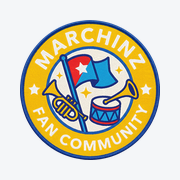
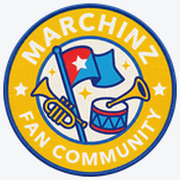
実機4件: PWAアイコンをギリギリ枠へ拡大(77%→97%)・おまかせ説明から上限なし文言を撤去・こだわりはパソコンだけ(管理者もスマホ不可)・1/2画面のフルショウ案内を初回から表示+スマホ5分を明記／v1.108.5
- pwa/: apple-touch-icon/icon-192/icon-512の紋章を98%へ(maskableは仕様どおり据え置き)、参照?v=一括バンプ
- limits.js: proAllowed=(unlimited||member)&&bigDevice(管理者のiPhoneに一般と別画面が出ていた)
- ui.js: flowEasyDescは上限なしのとき長さを言わない/app.js初期化でshowModeStep(kind)
- mzModeTip: スマホ5分の実数を追加(取り込み: スマホ5分/登録×PC15分/管理者のみ上限なし)
- QA: 新規2本(初回案内の配線+実数/上限なし文言禁止)+管理者×スマホ=不可へ契約更新。関連45件PASS

diff --git a/tools/qa/runner.html b/tools/qa/runner.html
@@ -3889,6 +3889,57 @@ async function countSamples(ns, file, fromSec) {
     return "常設表示あり / 写真アプリの道順つき / 次の取り込みで仕切り直す";
   });
 
+  await test("★1/2画面のフルショウ案内: 初回から出る配線+スマホゲストで5分/15分/10分を言う", async () => {
+    /* 2026-08-06 優さん指示+高校生レビューP0-3: #mzModeTip は showModeStep が
+       種類選択後にしか走らず、初回に一度も出ていなかった。
+       (1)app.js が初期化で showModeStep("kind") を呼ぶ配線があること(除去=退行)
+       (2)スマホ×ゲストの L で呼べば tip が出て、5分/15分/10分の実数を言うこと */
+    const appSrc = await (await fetch("../switcher/js/app.js")).text();
+    if (!/showModeStep\("kind"\)/.test(appSrc)) {
+      throw new Error("app.js の初期化に showModeStep('kind') が無い(初回に案内が出ない)");
+    }
+    const w = await compEnv();
+    compReset(w);
+    const keepL = w.MZ_LIMITS;
+    try {
+      w.MZ_LIMITS = await loadLimits({ mobile: true });   // ゲスト×スマホ
+      w.MC.ui.showModeStep("kind");
+      const tip = w.document.getElementById("mzModeTip");
+      if (!tip || tip.hidden) throw new Error("スマホゲストなのに案内が出ない");
+      const t = tip.textContent;
+      for (const need of ["無料登録", "パソコン", "5分", "15分", "10分"]) {
+        if (t.indexOf(need) < 0) throw new Error(`案内に「${need}」が無い: ` + t);
+      }
+      /* 上限なし(管理者)には出さない(2026-08-05 優さん指示のまま) */
+      w.MZ_LIMITS = await loadLimits({ admin: true, mobile: true });
+      w.MC.ui.showModeStep("kind");
+      if (!w.document.getElementById("mzModeTip").hidden) {
+        throw new Error("上限なしにも案内が出ている(当てはまらない話)");
+      }
+      return "配線あり / 5分・15分・10分を明言 / 上限なしには出さない";
+    } finally { w.MZ_LIMITS = keepL; w.MC.ui.showModeStep("kind"); }
+  });
+
+  await test("★おまかせの説明: 上限なしでは長さを言わない(「上限なしまでの」を出さない)", async () => {
+    /* 2026-08-06 優さん実機: 管理者のiPhoneで「上限なしまでの見どころ」と
+       日本語が壊れて出ていた。誤解のもとなので長さの節ごと省く */
+    const w = await compEnv();
+    compReset(w);
+    const keepL = w.MZ_LIMITS;
+    try {
+      w.MZ_LIMITS = await loadLimits({ admin: true });
+      w.MC.ui.showModeStep("kind");
+      const d = w.document.getElementById("flowEasyDesc").textContent;
+      if (/上限なし/.test(d)) throw new Error("上限なしの言葉が残っている: " + d);
+      if (!/2本以上/.test(d)) throw new Error("2本以上の前提が消えた: " + d);
+      w.MZ_LIMITS = await loadLimits({ mobile: true });
+      w.MC.ui.showModeStep("kind");
+      const g = w.document.getElementById("flowEasyDesc").textContent;
+      if (!/30秒まで/.test(g)) throw new Error("ゲストに実数(30秒)を言わない: " + g);
+      return "上限なし=長さを言わない / ゲスト=30秒までと言う";
+    } finally { w.MZ_LIMITS = keepL; w.MC.ui.showModeStep("kind"); }
+  });
+
   await test("★鍵つきの札が約束する道は、本当にその鍵を開ける(約束の検算)", async () => {
     /* ★ 2026-08-05 レビューで見つかった P0 の再発防止。
        limits.js の modeCapped が `<`(厳密)だったため、
@@ -7180,13 +7231,17 @@ async function countSamples(ns, file, fromSec) {
 
   await test("★「こだわり」を選べるかの正本は limits.js の1箇所(proAllowed)", async () => {
     /* ★ 2026-08-02 優さん指示⑩「こだわりは、pcだけにしよう」:
-       登録 かつ PC のみ。登録×スマホも不可になった。admin/手元環境は端末を問わず可 */
+       登録 かつ PC のみ。登録×スマホも不可。
+       ★ 2026-08-06 優さん「こだわりは、パソコンだけだよね!」で管理者も
+         端末の縛りに従うことになった ─ 管理者のiPhoneにだけこだわりが
+         開いて見え、一般ユーザーの画面と別物になっていた */
     const cases = [
       { name: "ゲスト×スマホ", o: { mobile: true },                pro: false },
       { name: "ゲスト×PC",     o: { mobile: false },               pro: false },
       { name: "登録×スマホ",   o: { mobile: true, member: true },  pro: false },
       { name: "登録×PC",       o: { mobile: false, member: true }, pro: true  },
-      { name: "管理者",        o: { admin: true, mobile: true },   pro: true  },
+      { name: "管理者×スマホ", o: { admin: true, mobile: true },   pro: false },
+      { name: "管理者×PC",     o: { admin: true, mobile: false },  pro: true  },
       { name: "手元環境",      o: { host: "localhost" },           pro: true  },
     ];
     const got = [];

diff --git a/tools/switcher/index.html b/tools/switcher/index.html
@@ -1,5 +1,5 @@
 <!DOCTYPE html>
-<html lang="ja" data-mz-app-v="1.108.4">
+<html lang="ja" data-mz-app-v="1.108.5">
 <head>
 <meta charset="UTF-8">
 <meta name="viewport" content="width=device-width, initial-scale=1, viewport-fit=cover">
@@ -8,7 +8,7 @@
 <meta name="theme-color" content="#fefcef">
 <link rel="icon" type="image/x-icon" href="/favicon.ico?v=1.99.3">
 <link rel="icon" type="image/png" href="/favicon.png?v=1.99.3">
-<link rel="apple-touch-icon" href="/pwa/apple-touch-icon.png?v=1.99.3">
+<link rel="apple-touch-icon" href="/pwa/apple-touch-icon.png?v=1.108.5">
 <meta property="og:title" content="MarchinZ Switcher — ランスルー同期・自動スイッチング">
 <meta property="og:description" content="みんなで撮ったランスルー動画を音で自動同期。自動スイッチング・ワイプでMP4に。MarchinZの無料クリエイターツール。">
 <meta property="og:type" content="website">
@@ -67,7 +67,7 @@
     <p id="mzModeTip" class="mode-tip" hidden>
       <i class="fa-regular fa-lightbulb" aria-hidden="true"></i>
       <b>フルショウのランスルーは、無料登録＋パソコンから作れます。</b>
-      パソコンなら1本15分まで取り込めて、10分までの動画を作成できます。
+      スマホで取り込めるのは1本5分まで。パソコンなら1本15分まで取り込めて、10分までの動画を作成できます。
     </p>
     <div class="mode-cards">
       <button type="button" class="mode-card" data-mode="vertical">
@@ -786,7 +786,7 @@
 <script src="js/timeline.js?v=1.99.3"></script>
 <script src="js/cutmode.js?v=1.99.3"></script>
 <script src="js/exporter.js?v=1.99.4"></script>
-<script src="js/ui.js?v=1.108.4"></script>
-<script src="js/app.js?v=1.108.2"></script>
+<script src="js/ui.js?v=1.108.5"></script>
+<script src="js/app.js?v=1.108.5"></script>
 </body>
 </html>

diff --git a/tools/shared/limits.js b/tools/shared/limits.js
@@ -107,8 +107,12 @@ window.MZ_LIMITS = (() => {
          登録ユーザー **かつ パソコン**(bigDevice)。細かい調整のUIはPC向けで、
          スマホは「おまかせ」が本線。admin/手元環境(unlimited)は開発・検証のため
          端末を問わず通す(上限系と同じ扱い)。
-       ★ おまかせは誰でも使える ─ ここで縛るのは「こだわり」だけ */
-    proAllowed: unlimited || (member && bigDevice),
+       ★ おまかせは誰でも使える ─ ここで縛るのは「こだわり」だけ。
+       ★ こだわりは**パソコンだけ**(2026-08-06 優さん「こだわりは、パソコンだけ
+         だよね!」)。以前は unlimited が端末を問わず通り、管理者のiPhoneに
+         こだわりが開いて見えていた ─ 一般ユーザーと違う画面で実機確認しても
+         製品の姿が分からない */
+    proAllowed: (unlimited || member) && bigDevice,
     /* 取り込める1本の長さ(ReAngle用)。登録 × パソコン だけ15分、それ以外は5分。
        15分あるのは、複数カメラの回し始めのズレ(実測で最大5分超)を
        吸収したうえでショウ全体が入るようにするため(2026-08-05: 12分→15分) */

diff --git a/tools/switcher/js/ui.js b/tools/switcher/js/ui.js
@@ -5821,8 +5821,12 @@ MC.ui.showModeStep = step => {
     if (d && L && L.exportLimitLabelFor) {
       const lab = L.exportLimitLabelFor(MC.ui._pendingMode || MC.S.mode);
       /* ★「2本以上」を選ぶ前に言う(2026-08-06 保護者レビュー: 「任意」表記と
-         needSecondVideoの門が矛盾し、スマホ1台の人が選んだ後で詰まっていた) */
-      d.innerHTML = `動画を2本以上選ぶだけ。<b>${MC.ui.esc(lab)}</b>までの見どころを、`
+         needSecondVideoの門が矛盾し、スマホ1台の人が選んだ後で詰まっていた)。
+         ★ 上限なし(管理者・手元)では長さの話をしない ─ 「上限なしまでの
+           見どころ」は日本語として壊れているうえ誤解を与える(2026-08-06 優さん) */
+      const capped = lab && lab !== "上限なし";
+      d.innerHTML = "動画を2本以上選ぶだけ。"
+        + (capped ? `<b>${MC.ui.esc(lab)}</b>までの見どころを、` : "見どころを、")
         + "傾きも色も整えて自動で書き出します";
     } }
   if (step === "flow") {

diff --git a/index.html b/index.html
@@ -1,5 +1,5 @@
 <!DOCTYPE html>
-<html lang="ja" data-mz-version="1.108.4">
+<html lang="ja" data-mz-version="1.108.5">
   <head>
     <meta charset="utf-8" />
     <meta name="viewport" content="width=device-width, initial-scale=1, viewport-fit=cover" />
@@ -60,7 +60,7 @@
     <meta name="apple-mobile-web-app-capable" content="yes" />
     <meta name="apple-mobile-web-app-status-bar-style" content="default" />
     <link rel="manifest" href="manifest.webmanifest?v=1.99.0" />
-    <link rel="apple-touch-icon" href="pwa/apple-touch-icon.png?v=1.99.0" />
+    <link rel="apple-touch-icon" href="pwa/apple-touch-icon.png?v=1.108.5" />
     <link rel="icon" type="image/x-icon" href="favicon.ico?v=1.99.0" />
     <link rel="icon" type="image/png" href="favicon.png?v=1.99.0" />
     <title>マーチンズ/MarchinZ | 残す、見つける、盛り上げる！マーチングコミュニティ「マーチンズ」</title>

diff --git a/tools/switcher/js/app.js b/tools/switcher/js/app.js
@@ -87,6 +87,11 @@ window.addEventListener("DOMContentLoaded", async () => {
     mute: "MP4対応(音声なし)", none: "書き出し非対応",
   }[MC.ui.exportMode()];
   MC.ui.renderAll();
+  /* ★ 種類選択(1/2)の案内(#mzModeTip「フルショウはパソコンから」)を初回から出す
+     (2026-08-06 優さん指示+高校生レビューP0: showModeStep は種類を選んだ後にしか
+     呼ばれず、いちばん読んでほしい初回に一度も表示されていなかった)。
+     復元で作業画面に居る場合も、親(modeSelect)が hidden なだけで無害 */
+  MC.ui.showModeStep("kind");
 
   // 自動テストモード: ?test で test_clips.json のクリップを読み込む
   if (new URLSearchParams(location.search).has("test")) {

diff --git a/tools/vlog/index.html b/tools/vlog/index.html
@@ -8,7 +8,7 @@
 <meta name="theme-color" content="#fefcef">
 <link rel="icon" type="image/x-icon" href="/favicon.ico?v=1.75.0">
 <link rel="icon" type="image/png" href="/favicon.png?v=1.75.0">
-<link rel="apple-touch-icon" href="/pwa/apple-touch-icon.png?v=1.75.0">
+<link rel="apple-touch-icon" href="/pwa/apple-touch-icon.png?v=1.108.5">
 <meta property="og:title" content="MarchinZ Vlog（開発中） — 団体Vlogを枠に入れるだけで">
 <meta property="og:description" content="インタビューと映像を枠に入れるだけ。プロの構成で3分の団体Vlogが完成。MarchinZの無料クリエイターツール。">
 <meta property="og:type" content="website">

diff --git a/tools/privacy/index.html b/tools/privacy/index.html
@@ -8,7 +8,7 @@
 <meta name="theme-color" content="#fefcef">
 <link rel="icon" type="image/x-icon" href="/favicon.ico?v=1.75.0">
 <link rel="icon" type="image/png" href="/favicon.png?v=1.75.0">
-<link rel="apple-touch-icon" href="/pwa/apple-touch-icon.png?v=1.75.0">
+<link rel="apple-touch-icon" href="/pwa/apple-touch-icon.png?v=1.108.5">
 <meta property="og:title" content="MarchinZ Privacy — 顔自動モザイク">
 <meta property="og:description" content="顔に自動でモザイク。写真は端末の外に出ません。MarchinZの無料クリエイターツール。">
 <meta property="og:type" content="website">

diff --git a/tools/reangle/index.html b/tools/reangle/index.html
@@ -6,7 +6,7 @@
 <title>ReAngle — 斜め撮り動画を正面に</title>
 <link rel="icon" type="image/x-icon" href="/favicon.ico?v=1.75.0">
 <link rel="icon" type="image/png" href="/favicon.png?v=1.75.0">
-<link rel="apple-touch-icon" href="/pwa/apple-touch-icon.png?v=1.75.0">
+<link rel="apple-touch-icon" href="/pwa/apple-touch-icon.png?v=1.108.5">
 <link rel="stylesheet" href="/vendor/fontawesome/css/all.min.css">
 <link rel="stylesheet" href="/tools/shared/journey.css?v=1.99.3">
 <link rel="stylesheet" href="css/style.css">
